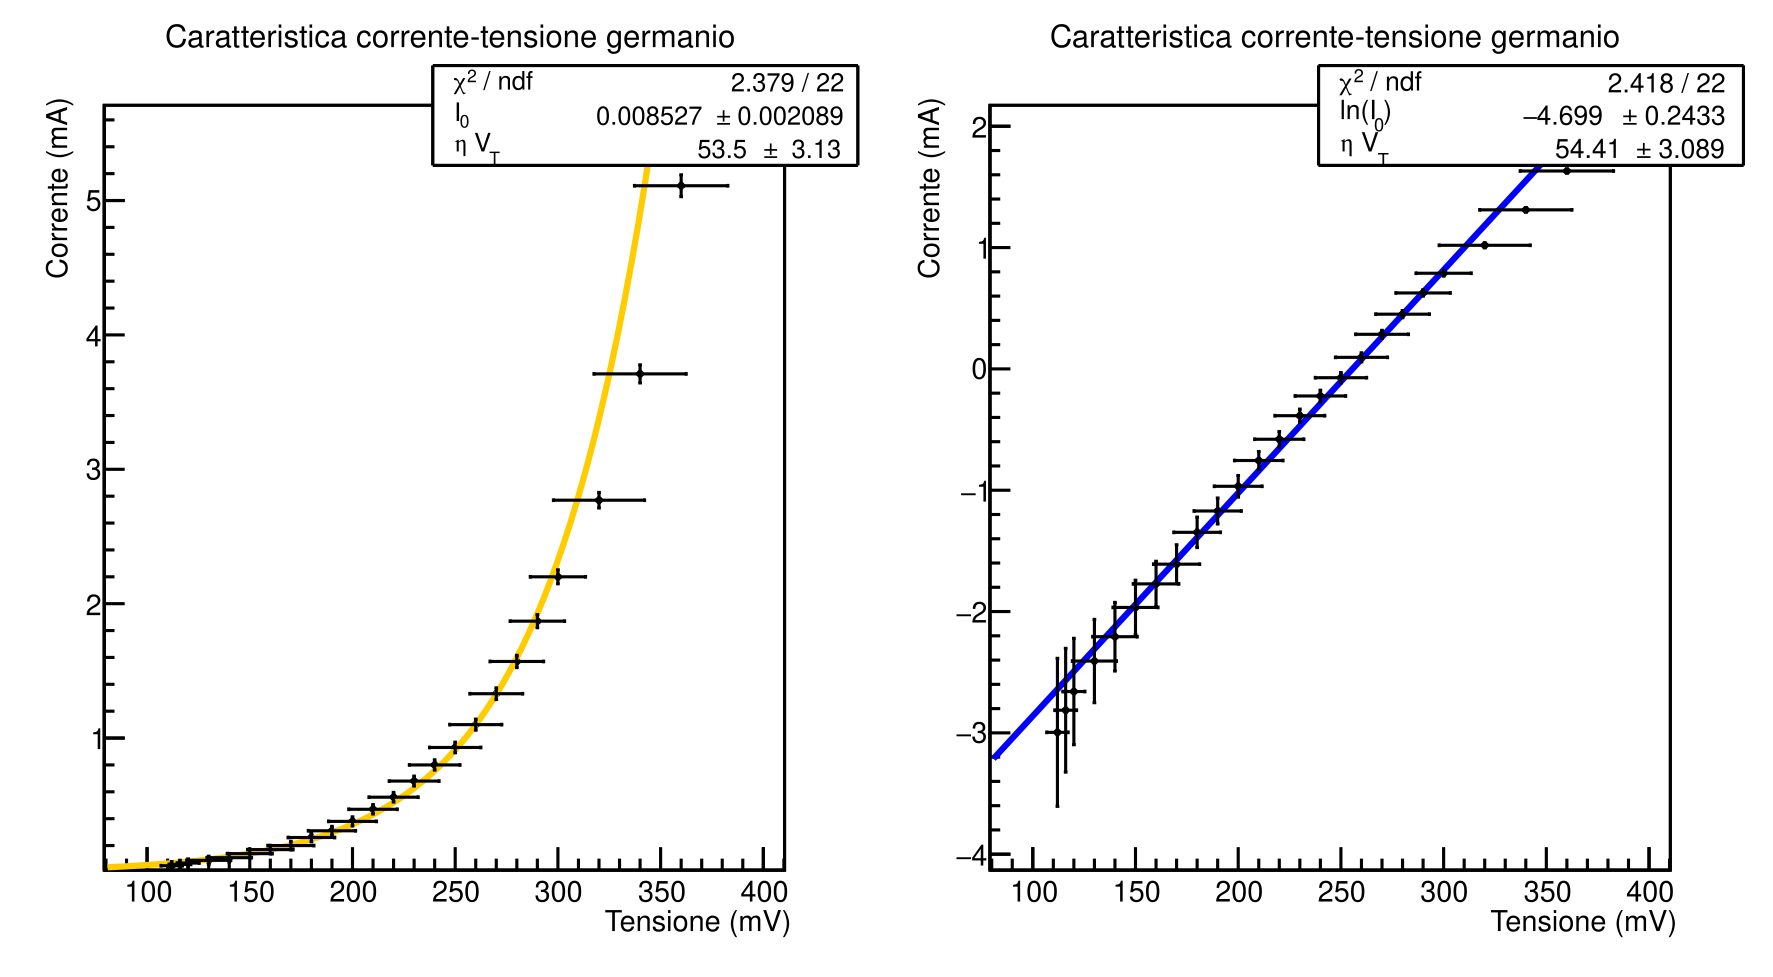
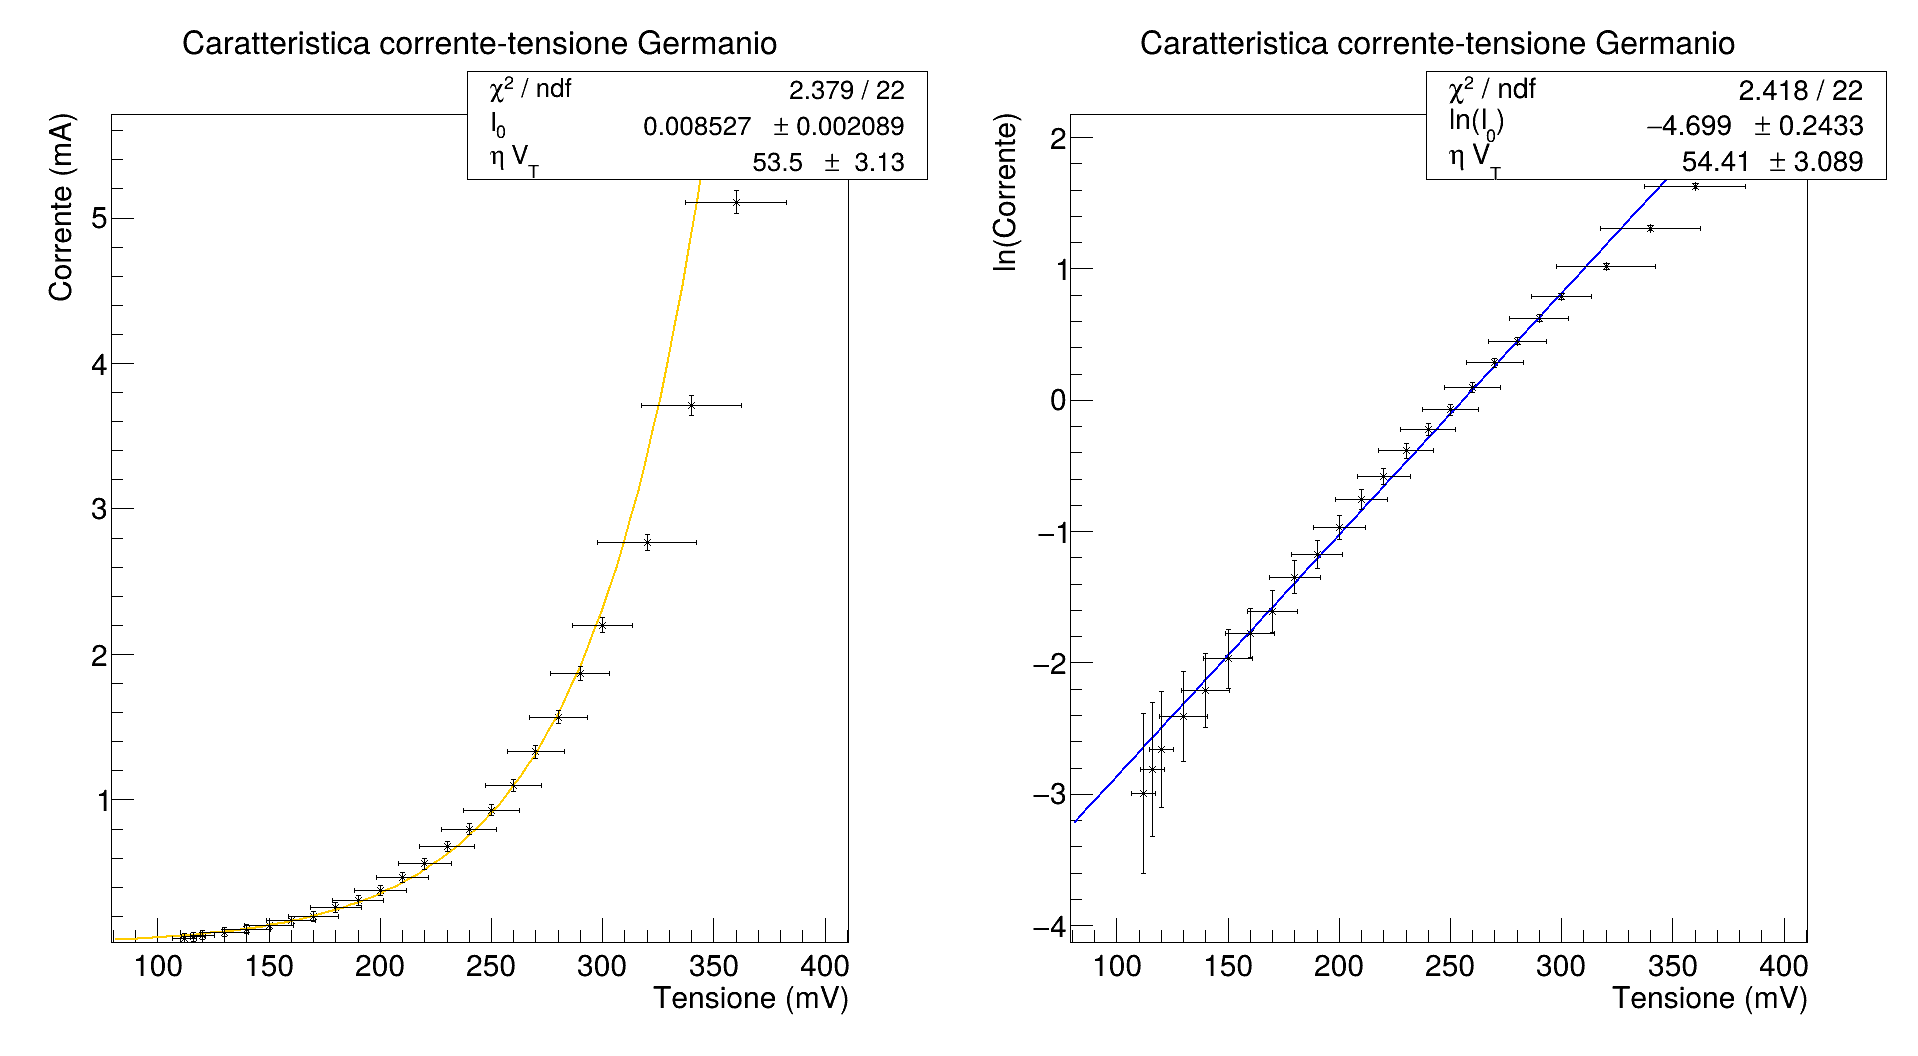
sistemati grafici, assi regressione hanno ln(Corrente), eliminate le vecchie immagini

diff --git a/lab1/fit/fit_diodi.cpp b/lab1/fit/fit_diodi.cpp
@@ -36,12 +36,12 @@ void cutiefier(TVirtualPad* pad) {
   }
 }
 
-void create_graphs(const char *source_file, const char *title, const char* output_file) {
+void create_graphs(const char *source_file, const char *title1, const char *title2, const char* output_file) {
   TCanvas c{"", "", 1920, 1080};
   c.Divide(2);
 
   TGraphErrors graph(source_file);
-  graph.SetTitle(title);
+  graph.SetTitle(title1);
 
   c.cd(1);
 
@@ -75,8 +75,7 @@ void create_graphs(const char *source_file, const char *title, const char* outpu
   retta.SetParameters(-3, 1. / 50);
   retta.SetParNames("ln(I_{0})", "#eta V_{T}");
   retta.SetLineColor(kBlue);
-
-  graph_log.SetTitle(title);
+  graph_log.SetTitle(title2);
   graph_log.SetMarkerStyle(1);
   graph_log.SetMarkerSize(1);
   graph_log.Fit(&retta);
@@ -93,9 +92,9 @@ int main() {
   // void fit_diodi() {
   setStyle();
 
-  create_graphs("../fit/diodo_silicio.csv",
-                "Caratteristica corrente-tensione silicio;Tensione (mV);Corrente (mA)", "silicio.root");
+  create_graphs("../diodo_silicio.csv",
+                "Caratteristica corrente-tensione Silicio;Tensione (mV);Corrente (mA)", "Caratteristica corrente-tensione Silicio;Tensione (mV);ln(Corrente)", "silicio.root");
 
-  create_graphs("../fit/diodo_germanio.csv",
-                "Caratteristica corrente-tensione germanio;Tensione (mV);Corrente (mA)", "germanio.root");
+  create_graphs("../diodo_germanio.csv",
+                "Caratteristica corrente-tensione Germanio;Tensione (mV);Corrente (mA)", "Caratteristica corrente-tensione Germanio;Tensione (mV);ln(Corrente)", "germanio.root");
 }
